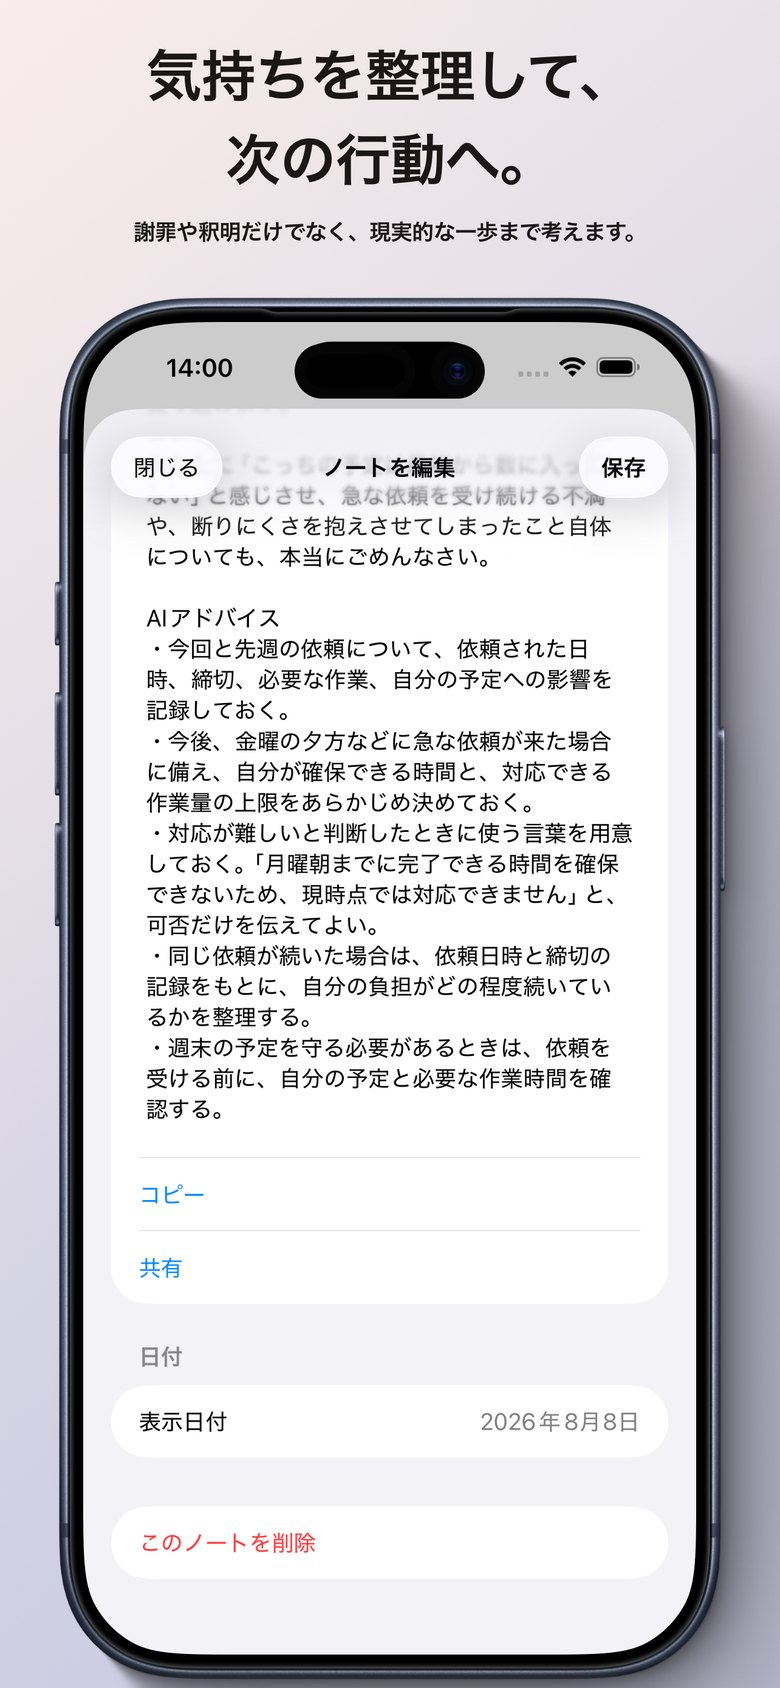
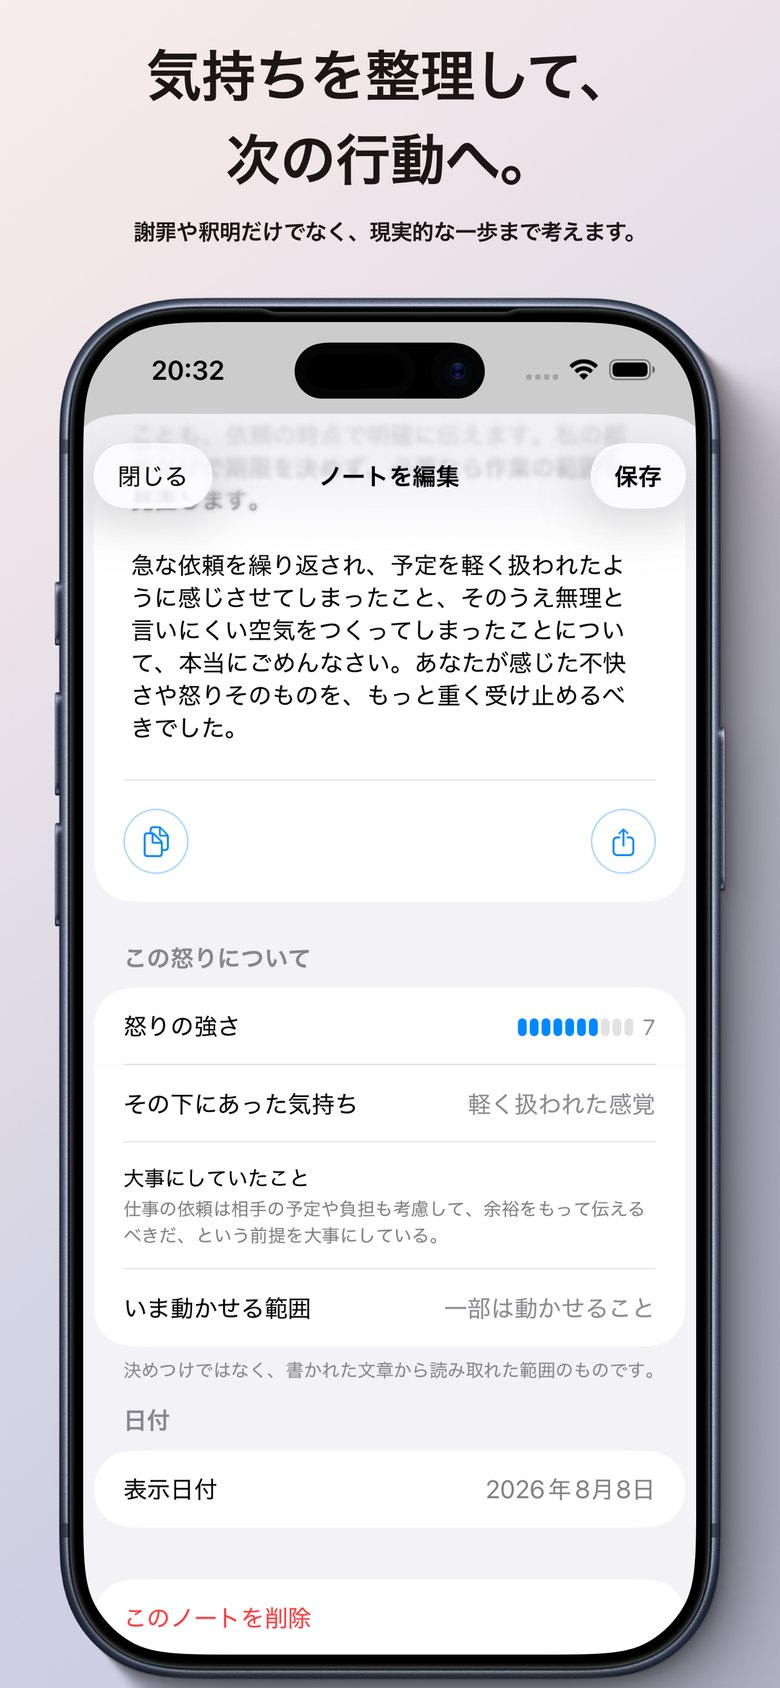
LPの4枚目を最新の画面に差し替える
コピーと共有が丸枠のアイコンになり、分析がボタン式になったため、
古い画面は実物と違っていた。

新しい4枚目は、文章の末尾と「この怒りについて」を1枚に収めている。
alt も内容に合わせて書き直した。

⚠ 2枚目（入力画面）はまだ古い。現在は AI整理 の下に
「この怒りについて調べる」が出るが、あの画面には無い。

diff --git a/fumannote.html b/fumannote.html
@@ -111,7 +111,7 @@
           <img src="assets/shots/fumannote-01.jpg" width="780" height="1688" loading="lazy" decoding="async" alt="ノートの一覧。「実家」「役所」「友だち」「近所」など、書き出した不満が日付とともに並んでいる。">
           <img src="assets/shots/fumannote-02.jpg" width="780" height="1688" loading="lazy" decoding="async" alt="ノートの入力画面。「誰に？何に？」と本文の欄、そして「相手目線の釈明」ボタン。">
           <img src="assets/shots/fumannote-03.jpg" width="780" height="1688" loading="lazy" decoding="async" alt="生成された文章。相手の一人称で、何が起きたかを認め、事情を説明し、非を認める内容が並んでいる。">
-          <img src="assets/shots/fumannote-04.jpg" width="780" height="1688" loading="lazy" decoding="async" alt="文章の続きと「AIアドバイス」。自分で実行できる現実的な行動が箇条書きで並んでいる。">
+          <img src="assets/shots/fumannote-04.jpg" width="780" height="1688" loading="lazy" decoding="async" alt="文章の末尾と、押したときだけ出る「この怒りについて」。怒りの強さ、その下にあった気持ち、大事にしていたこと、いま動かせる範囲が並んでいる。">
         </div>
       </div>
     </section>
